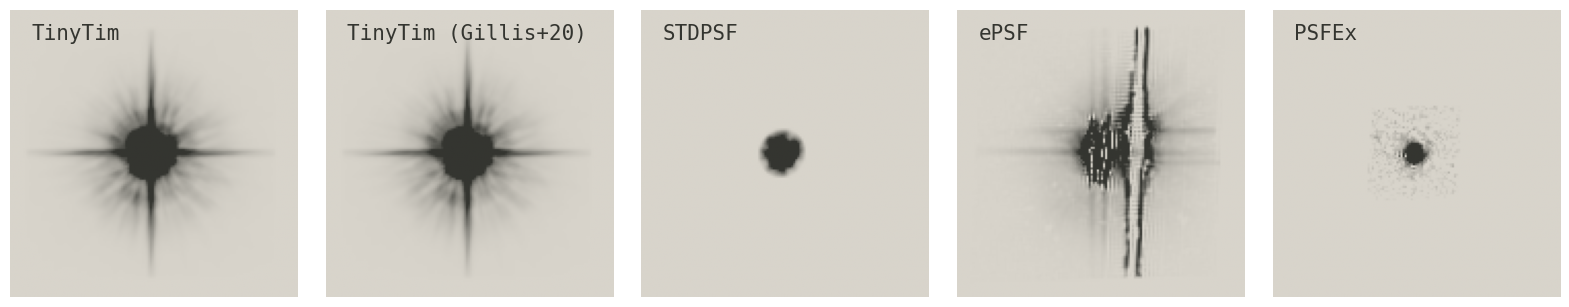
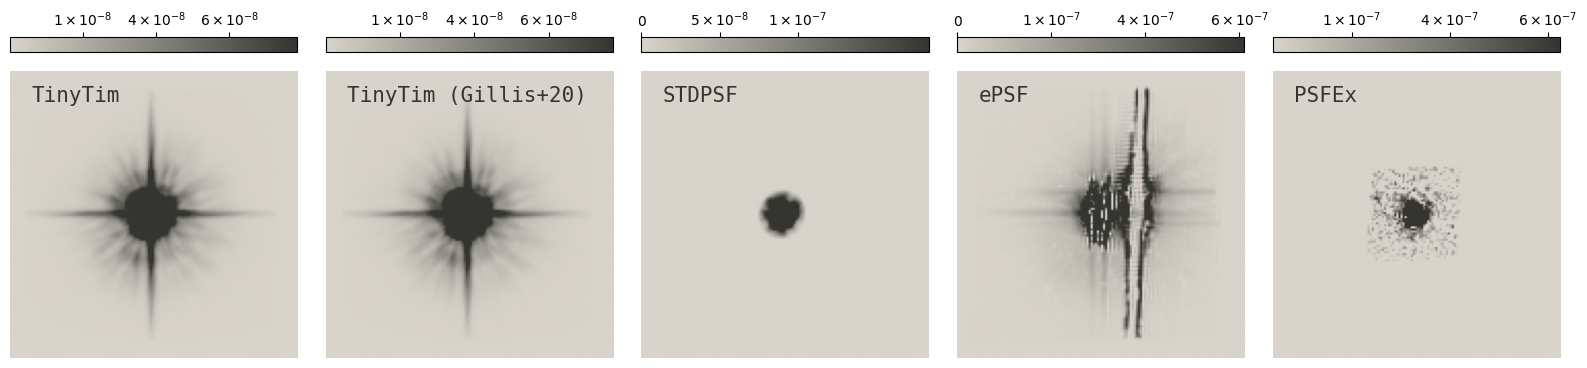
add test tolerance as in #7, address some comments raised in openjournals/joss-reviews #8200

diff --git a/tests/test_outputs.py b/tests/test_outputs.py
@@ -71,72 +71,116 @@ import albumpl.cmap
 from astropy.io import fits
 
 
-fig, ax = plt.subplots(1, 5, figsize = (20, 4), gridspec_kw = {'wspace':0.1})
+def tick_formatter(y, pos):
+	if y <= 0:
+		if y == 0:
+			return 0
+		if y < 0:
+			label = str(np.log10(abs(y))).split('.')
+			exp = float(label[0])
+			if exp < 1:
+				pref = 10**float('-0.'+label[1])
+			if exp >= 1:
+				pref = 10**float('0.'+label[1])
+			if pref >= 10:
+				pref /= 10
+				exp += 1
+			if pref < 1:
+				exp -= 1
+			return r'$-%d \times 10^{%d}$'%(pref, exp)
+	else:
+		label = str(np.log10(abs(y))).split('.')
+		exp = float(label[0])
+		if exp < 1:
+			pref = 10**float('-0.'+label[1])
+		if exp >= 1:
+			pref = 10**float('0.'+label[1])
+		if pref >= 10:
+			pref /= 10
+			exp += 1
+		if pref < 1:
+			pref *= 10
+			exp -= 1
+		return r'$%i \times 10^{%i}$'%(pref, exp)
+
+
+fig, ax = plt.subplots(1, 5, figsize = (20, 5), gridspec_kw = {'wspace':0.1})
 
 tt = fits.open('psfs_tiny/150d08m15.267s+2d09m52.304s_F475W_psf_drz.fits')
 ttim = tt[1].data[325:465, 940:1080]
-ax[0].imshow(ttim, vmin = np.percentile(ttim, 20), vmax = np.percentile(ttim, 97), origin = 'lower', cmap = 'LondonCalling_r')
+cbar0 = ax[0].imshow(ttim, vmin = np.percentile(ttim, 20), vmax = np.percentile(ttim, 97), origin = 'lower', cmap = 'LondonCalling_r')
+plt.colorbar(cbar0, ax = ax[0], location = 'top', orientation = 'horizontal', pad = 0.05, format = tick_formatter)
 ax[0].text(10, 125, s = 'TinyTim', fontsize = 15, fontfamily = 'monospace', color = '#343530')
 ax[0].axis('off')
 
 ttg = fits.open('psfs_tinygillis/150d08m15.267s+2d09m52.304s_F475W_psf_drz.fits')
 ttgim = ttg[1].data[325:465, 940:1080]
-ax[1].imshow(ttgim, vmin = np.percentile(ttgim, 20), vmax = np.percentile(ttgim, 97), origin = 'lower', cmap = 'LondonCalling_r')
+cbar1 = ax[1].imshow(ttgim, vmin = np.percentile(ttgim, 20), vmax = np.percentile(ttgim, 97), origin = 'lower', cmap = 'LondonCalling_r')
+plt.colorbar(cbar1, ax = ax[1], location = 'top', orientation = 'horizontal', pad = 0.05, format = tick_formatter)
 ax[1].text(10, 125, s = 'TinyTim (Gillis+20)', fontsize = 15, fontfamily = 'monospace', color = '#343530')
 ax[1].axis('off')
 
 std = fits.open('psfs_stdpsf/150d08m15.267s+2d09m52.304s_F475W_psf_drz.fits')
 stdim = std[1].data[325:465, 940:1080]
 # ax[2].imshow(stdim, vmin = np.percentile(stdim[stdim != 0], 5), vmax = np.percentile(stdim[stdim != 0], 60), origin = 'lower', cmap = 'LondonCalling_r')
-ax[2].imshow(stdim, vmin = np.percentile(stdim, 20), vmax = np.percentile(stdim, 99), origin = 'lower', cmap = 'LondonCalling_r')
+cbar2 = ax[2].imshow(stdim, vmin = np.percentile(stdim, 20), vmax = np.percentile(stdim, 99), origin = 'lower', cmap = 'LondonCalling_r')
+plt.colorbar(cbar2, ax = ax[2], location = 'top', orientation = 'horizontal', pad = 0.05, 
+	format = tick_formatter, ticks = [0, 5e-8, 1e-7])
 ax[2].text(10, 125, s = 'STDPSF', fontsize = 15, fontfamily = 'monospace', color = '#343530')
 ax[2].axis('off')
 
 epsf = fits.open('psfs_epsf/150d08m15.267s+2d09m52.304s_F475W_psf_drz.fits')
 epsfim = epsf[1].data[325:465, 940:1080]
-ax[3].imshow(epsfim, vmin = np.percentile(epsfim, 20), vmax = np.percentile(epsfim, 97), origin = 'lower', cmap = 'LondonCalling_r')
+cbar3 = ax[3].imshow(epsfim, vmin = np.percentile(epsfim, 20), vmax = np.percentile(epsfim, 97), origin = 'lower', cmap = 'LondonCalling_r')
+plt.colorbar(cbar3, ax = ax[3], location = 'top', orientation = 'horizontal', pad = 0.05, format = tick_formatter)
 ax[3].text(10, 125, s = 'ePSF', fontsize = 15, fontfamily = 'monospace', color = '#343530')
 ax[3].axis('off')
 
 
 psfex = fits.open('psfs_psfex/150d08m15.267s+2d09m52.304s_F475W_psf_drz.fits')
 psfexim_ = psfex[1].data[325:465, 940:1080]
-ax[4].imshow(psfexim_, vmin = np.percentile(psfexim_[psfexim_ >0], 20), vmax = np.percentile(psfexim_[psfexim_ >0], 95), origin = 'lower', cmap = 'LondonCalling_r')
+cbar4 = ax[4].imshow(psfexim_, vmin = np.percentile(psfexim_[psfexim_ >0], 20), vmax = np.percentile(psfexim_[psfexim_ >0], 90), origin = 'lower', cmap = 'LondonCalling_r')
+plt.colorbar(cbar4, ax = ax[4], location = 'top', orientation = 'horizontal', pad = 0.05, format = tick_formatter,
+	ticks = [2e-7, 4e-7, 6e-7])
 ax[4].text(10, 125, s = 'PSFEx', fontsize = 15, fontfamily = 'monospace', color = '#343530')
 ax[4].axis('off')
 
 fig.savefig('spike_psf_hstcompare.png', bbox_inches = 'tight')
 
 
-fig, ax = plt.subplots(1, 4, figsize = (16, 4), gridspec_kw = {'wspace':0.1})
+fig, ax = plt.subplots(1, 4, figsize = (16, 5), gridspec_kw = {'wspace':0.1})
 
 jw = fits.open('psfs_webbpsf/100031+021026_F115W_resamplestep.fits')
 jwim = jw[1].data[1114-70: 1114+70, 553-70:553+70]
-ax[0].imshow(jwim, vmin = np.nanpercentile(jwim, 20), vmax = np.nanpercentile(jwim, 97), origin = 'lower', cmap = 'LondonCalling_r')
+cbar0 = ax[0].imshow(jwim, vmin = np.nanpercentile(jwim, 20), vmax = np.nanpercentile(jwim, 97), origin = 'lower', cmap = 'LondonCalling_r')
+plt.colorbar(cbar0, ax = ax[0], location = 'top', orientation = 'horizontal', pad = 0.05, format = tick_formatter)
 ax[0].text(10, 125, s = 'WebbPSF', fontsize = 15, fontfamily = 'monospace', color = '#343530')
 ax[0].axis('off')
 
 std = fits.open('psfs_jwst_stdpsf/100031+021026_F115W_resamplestep.fits')
 stdim = std[1].data[1114-70: 1114+70, 553-70:553+70]
-ax[1].imshow(stdim, vmin = np.nanpercentile(stdim, 20), vmax = np.nanpercentile(stdim, 99), origin = 'lower', cmap = 'LondonCalling_r')
+cbar1 = ax[1].imshow(stdim, vmin = np.nanpercentile(stdim, 20), vmax = np.nanpercentile(stdim, 99), origin = 'lower', cmap = 'LondonCalling_r')
+plt.colorbar(cbar1, ax = ax[1], location = 'top', orientation = 'horizontal', pad = 0.05, 
+	format = tick_formatter, ticks = [1e-5, 5e-5, 1e-4])
 ax[1].text(10, 125, s = 'STDPSF', fontsize = 15, fontfamily = 'monospace', color = '#343530')
 ax[1].axis('off')
 
 ## this one has to be generated with different values than the defaults -- ePSF is very sensitive to threshold value
 epsf = fits.open('psfs_jwst_epsf/100031+021026_F115W_resamplestep.fits')
 epsfim = epsf[1].data[1114-70: 1114+70, 553-70:553+70]
-ax[2].imshow(epsfim, vmin = np.nanpercentile(epsfim, 20), vmax = np.nanpercentile(epsfim, 97), origin = 'lower', cmap = 'LondonCalling_r')
+cbar2 = ax[2].imshow(epsfim, vmin = np.nanpercentile(epsfim, 20), vmax = np.nanpercentile(epsfim, 97), origin = 'lower', cmap = 'LondonCalling_r')
+plt.colorbar(cbar2, ax = ax[2], location = 'top', orientation = 'horizontal', pad = 0.05, format = tick_formatter)
 ax[2].text(10, 125, s = 'ePSF', fontsize = 15, fontfamily = 'monospace', color = '#343530')
 ax[2].axis('off')
 
 
 psfex = fits.open('psfs_jwst_psfex/100031+021026_F115W_resamplestep.fits')
 psfexim_ = psfex[1].data[1114-70: 1114+70, 553-70:553+70]
-ax[3].imshow(psfexim_, vmin = np.nanpercentile(psfexim_[psfexim_ >0], 20), vmax = np.nanpercentile(psfexim_[psfexim_ >0], 95), origin = 'lower', cmap = 'LondonCalling_r')
+cbar3 = ax[3].imshow(psfexim_, vmin = np.nanpercentile(psfexim_[psfexim_ >0], 20), vmax = np.nanpercentile(psfexim_[psfexim_ >0], 90), origin = 'lower', cmap = 'LondonCalling_r')
+plt.colorbar(cbar3, ax = ax[3], location = 'top', orientation = 'horizontal', pad = 0.05, format = tick_formatter)
 ax[3].text(10, 125, s = 'PSFEx', fontsize = 15, fontfamily = 'monospace', color = '#343530')
 ax[3].axis('off')
 
 
 fig.savefig('spike_psf_jwstcompare.png', bbox_inches = 'tight')
-
 
